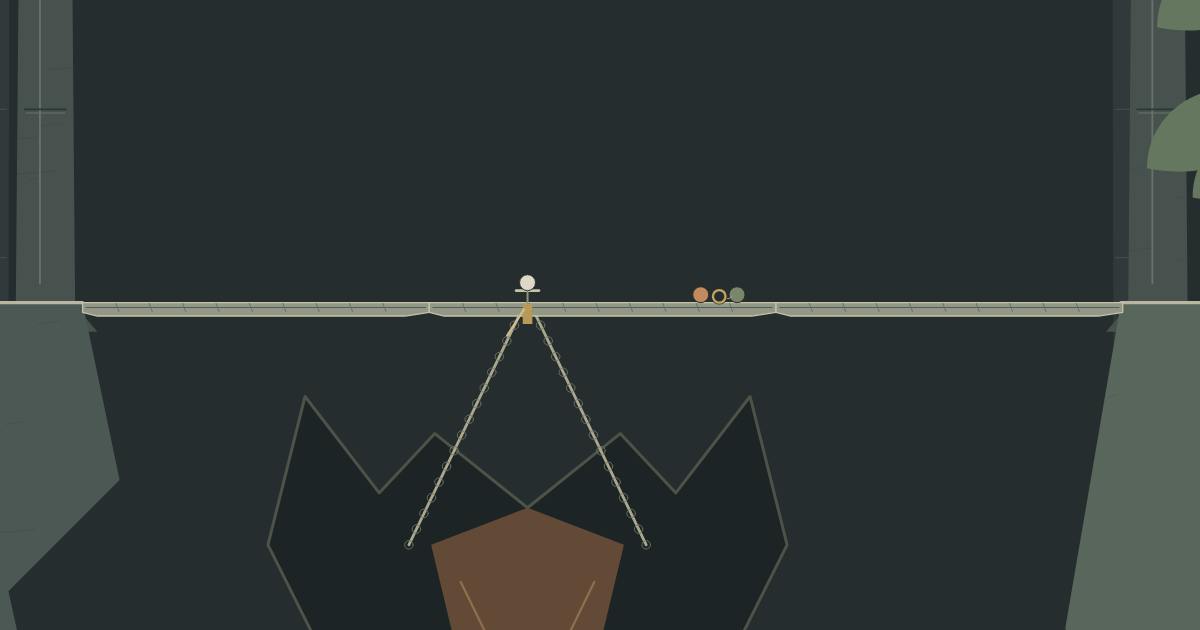
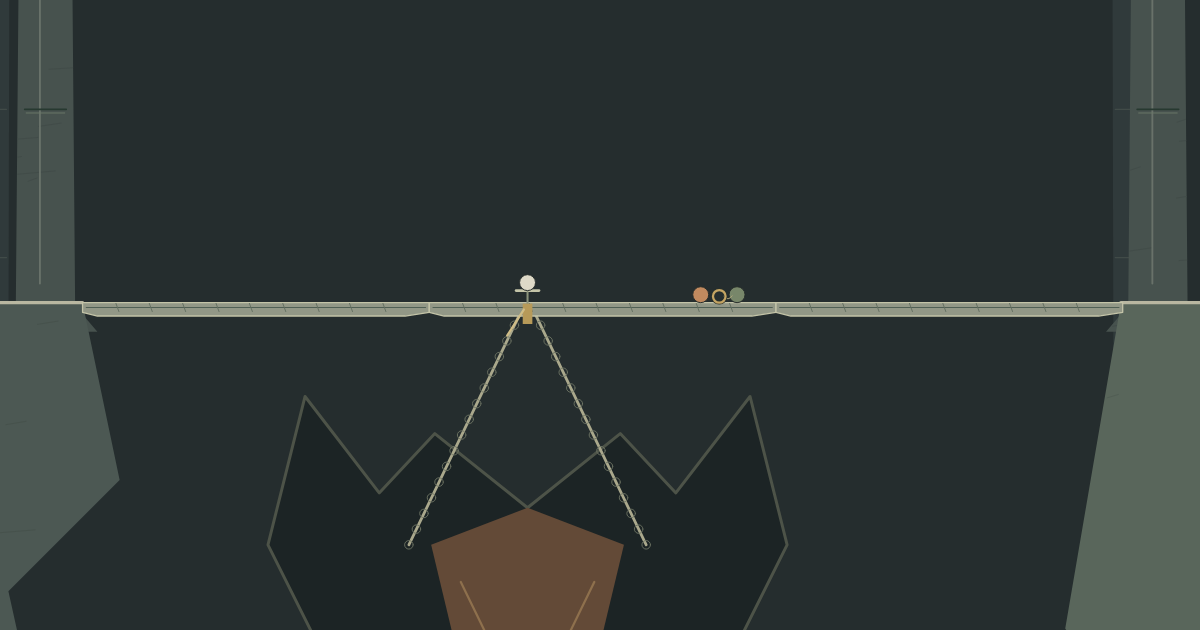
refine(burden): give the aftermath room and open the river

Changed region(s): [[0.9558, 0.1508, 1.0, 0.3317], [0.9558, 0.0, 1.0, 0.0603]]

diff --git a/apps/rube/src/shows/versions/bridge-of-khazad-dum/astra/drawing.ts b/apps/rube/src/shows/versions/bridge-of-khazad-dum/astra/drawing.ts
@@ -71,7 +71,7 @@ function rock(g: G, points: Pt[], color: string, salt: number): void {
   }
   g.restore()
 }
-function branch(g: G, x: number, y: number, h: number, color: string, salt: number): void {
+function branch(g: G, x: number, y: number, h: number, color: string, salt: number, crown = 0.25, tiers = 7): void {
   const sway = (hash(salt) - 0.5) * h * 0.2
   g.beginPath(); g.moveTo(x - h * 0.055, y)
   g.bezierCurveTo(x + h * 0.025, y - h * 0.28, x - h * 0.04, y - h * 0.53, x + sway, y - h)
@@ -80,8 +80,9 @@ function branch(g: G, x: number, y: number, h: number, color: string, salt: numb
   g.beginPath(); g.moveTo(x - h * 0.015, y - 0.2)
   g.bezierCurveTo(x + h * 0.04, y - h * 0.3, x - h * 0.025, y - h * 0.47, x + sway, y - h * 0.8)
   g.strokeStyle = mixHex(color, '#C1C3A0', 0.22); g.lineWidth = 0.035; g.stroke()
-  for (let i = 0; i < 7; i++) {
-    const s = i % 2 ? -1 : 1, by = y - h * (0.25 + i * 0.085), bx = x + sway * (0.25 + i * 0.085)
+  for (let i = 0; i < tiers; i++) {
+    const height = crown + i * (0.76 - crown) / (tiers - 1)
+    const s = i % 2 ? -1 : 1, by = y - h * height, bx = x + sway * height
     g.beginPath(); g.moveTo(bx, by)
     g.bezierCurveTo(bx + s * h * 0.19, by, bx + s * h * 0.12, by - h * 0.18, bx + s * h * 0.3, by - h * 0.2)
     g.strokeStyle = color; g.lineWidth = h * (0.021 - i * 0.0015); g.stroke()
@@ -159,21 +160,29 @@ export const landscape = piece('burden-landscape', (g, t) => {
   rock(g, [[132, 5.24], [139, 5.24], [141, 5.6], [141, 35], [131, 35], [133, 18], [130.5, 14]], '#59665B', 31)
   line(g, [[132, 5.215], [139, 5.215], [142.65, 5.715], [144, 5.715]], EDGE, 0.09)
 
-  // Lothlórien's woven roots lower the travellers to the Anduin.
-  for (let i = 0; i < 6; i++) branch(g, 140 + i * 3.1, 12, 19 + hash(i, 45) * 5, i % 2 ? '#72836B' : '#65785F', 50 + i)
+  // Three high crowns leave a quiet clearing around the survivors. The trees
+  // measure the descent; the leaf and its one counterweight carry the action.
+  branch(g, 140.5, 12, 23, '#60755F', 51, 0.6, 4)
+  branch(g, 149.5, 12, 25, '#6D8066', 52, 0.6, 4)
+  branch(g, 158, 12, 21, '#78896D', 55, 0.6, 4)
+  g.beginPath(); g.moveTo(149.3, -3.4)
+  g.bezierCurveTo(147.8, -2.1, 146.1, -2.2, 144.4, -1.8)
+  g.strokeStyle = '#6D8066'; g.lineWidth = 0.18; g.stroke()
   rock(g, [[137.5, 5.215], [139, 5.215], [142.65, 5.715], [145.35, 5.715], [145, 15], [138, 19]], '#707E66', 34)
   rock(g, [[149, 10.94], [155, 10.94], [154.6, 13], [149, 16]], '#777F68', 39)
   line(g, [[149.5, 10.94], [155, 10.94]], '#C2BC99', 0.1)
 
+  // Distant ridges sit behind the waterline. No foreground wedge closes the
+  // river in front of the skiff during the long final hold.
+  shape(g, [[171, 10], [183, -4], [189, 2], [197, -12], [202, -6], [209, -1], [220, -9], [230, 15]], '#57665A')
+  shape(g, [[181, 14], [197, -12], [194, -1], [200, 6], [207, 2], [224, 17]], '#46564C')
+  line(g, [[197, -12], [195, -5], [197, -3]], '#8B9380', 0.04)
   // The river has no specular reflection: cut horizontal lines in a matte sheet.
   rect(g, 145, 11.2, 100, 50, mixHex('#8D9F93', '#566F65', smooth(t, 325, 353)))
   for (let i = 0; i < 85; i++) {
     const x = 145 + hash(i, 70) * 60 - (t * 0.018 % 2), y = 11.6 + hash(i, 74) * 18
     line(g, [[x, y], [x + 0.45 + hash(i, 80) * 2.2, y]], '#9DAA92', 0.025)
   }
-  shape(g, [[171, 10], [183, -4], [189, 2], [197, -12], [202, -6], [209, -1], [220, -9], [230, 15]], '#57665A')
-  shape(g, [[181, 14], [197, -12], [194, -1], [200, 6], [207, 2], [224, 17]], '#46564C')
-  line(g, [[197, -12], [195, -5], [197, -3]], '#8B9380', 0.04)
 })
 
 export const bagEnd = piece('burden-round-door-latch', (g, t) => {

diff --git a/docs/shows/burden/REVIEW.md b/docs/shows/burden/REVIEW.md
@@ -1,6 +1,6 @@
 # Burden — Astra review record
 
-Four improvement rounds, with one push per round. One draft PR: #219.
+Five improvement rounds, with one push per round. One draft PR: #219.
 `npm run build` passed before each push: lint, typecheck, the complete test
 suite, and the Vite production build.
 
@@ -54,3 +54,23 @@ The revised pass painted all 11,490 scan frames with no page errors. Reverse
 scrubbing reproduced identical pixels; Zoom, Overview and matte DOM/video
 credit checks passed. The complete 1× confirmation also provides the viewing
 pass used to select round 5's worst moments.
+
+## Continuation · round 5
+
+The complete 1× round-4 confirmation exposed the grove as the noisiest
+passage: six matching trees and 126 leaf shapes filled the space around the
+leaf cradle. Replaced them with three tall trunks and 36 leaves held in high
+crowns. A single bough anchors the pulley. The descent now has a clear field,
+and the tree line no longer intrudes into the bridge's wide frame.
+
+Put the distant mountain planes behind the waterline. The skiff now has open
+river ahead through the final hold and credits, instead of a foreground wedge
+that appeared to close its route. No motion keys, camera keys or cue times
+changed. Lint, typecheck, all tests and the production build passed.
+
+Review: complete 0–383-second wall-clock 1× confirmation, followed by the
+11,490-frame scan and consecutive handoff sheets. Selected images:
+`bridge.png`, `grove.png`, `fellowship.png`. Artifacts: `out/burden/round-5/`.
+The final scan reported zero page errors and identical reverse-scrub pixels.
+Zoom, Overview and matte credit parity passed. This full 1× confirmation is
+also the review used to choose round 6's remaining motion faults.

diff --git a/apps/rube/src/shows/versions/bridge-of-khazad-dum/BURDEN.md b/apps/rube/src/shows/versions/bridge-of-khazad-dum/BURDEN.md
@@ -126,3 +126,12 @@ and opening hoop clearance checks. Score anchors and camera timing are fixed.
 
 The review script now accepts `--watch` for the complete real-time picture
 pass, alongside `--scan` for all 11,490 frames. Both are recorded separately.
+
+### Round 5
+
+The full 1× pass made the grove's repetition the next edit. Cut six trees and
+126 leaf shapes down to three high crowns with 36 leaves; the leaf cradle,
+counterweight and survivors now move through a clear field. One bough anchors
+the pulley. Moved the distant ridges behind the waterline so the final river
+stays open ahead of the skiff. No camera or motion timing changed. Repeated
+the complete 1× review, 30 fps frame scan and full build gate.
